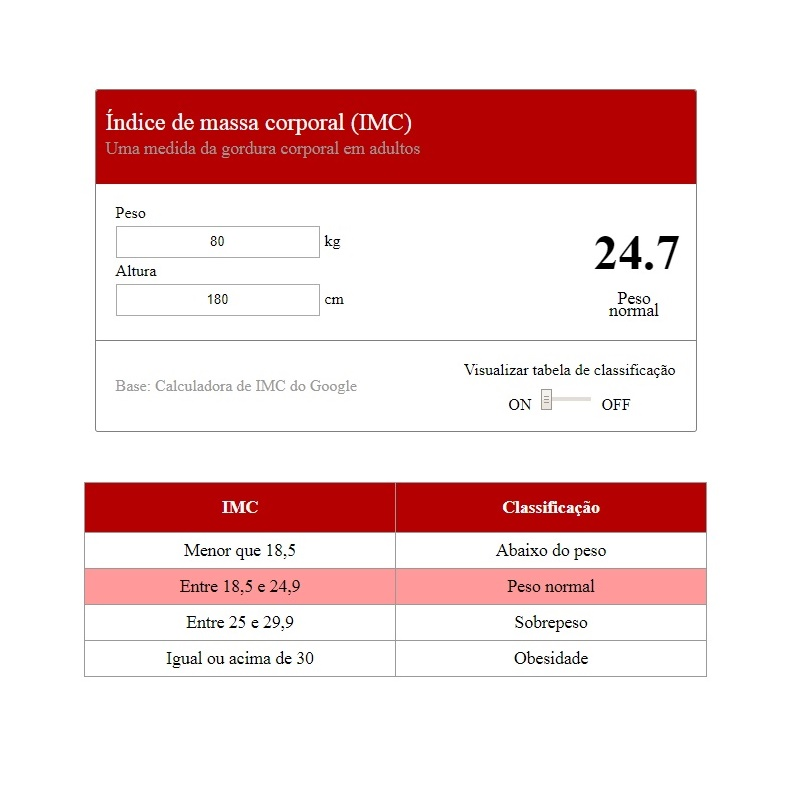
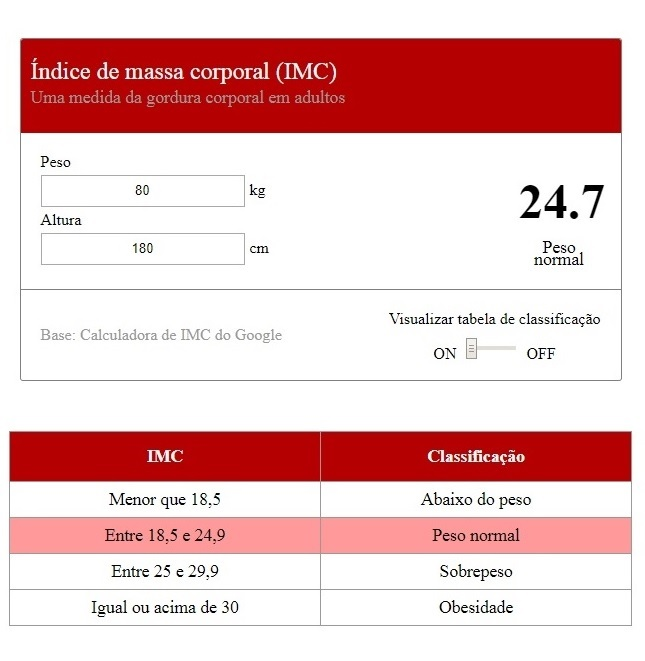
port+
add portfolio

diff --git a/index.html b/index.html
@@ -167,13 +167,20 @@
       <img src="img/port_formulario.jpg" alt="..." class="img_port img-fluid  mx-auto"> 
       <p class="portfolio_mais text-light py-2 mt-2 mb-0" >Mais Informações</p> 
       </div> 
+
+        <div class="portfolio_item col-lg-8 col-8 mx-1 d-inline-block bg-white py-0 my-2 px-0 "
+      data-toggle="modal" data-target="#port_imc_modal"> 
+       <p class="portfolio_titulo text-light py-2">Calculadora IMC<br> Javascript</p> 
+      <img src="img/port_imc.jpg" alt="..." class="img_port img-fluid  mx-auto"> 
+      <p class="portfolio_mais text-light py-2 mt-2 mb-0" >Mais Informações</p> 
+      </div> 
    
        </div>
 
-      <!--modal detalhes -->
+     
 
 
-<!-- Modal -->
+<!-- Modal formulario-->
 <div class="modal fade" id="port_formulario_modal" tabindex="-1" role="dialog" aria-labelledby="exampleModalLabel" aria-hidden="true">
   <div class="modal-dialog modal-lg" role="document">
     <div class="modal-content">
@@ -186,6 +193,28 @@
       <div class="modal-body row">
         <div class="col-lg-5"><img src="img/port_formulario_modal.jpg" alt="..." class=" img-fluid "> </div>
         <div class="d-inline col-lg-6 text-left"> <p><a href="https://gustavovianaa.github.io/formulario_bootstrap_jquery/" target="blank">Github Pages</a></p>   <p><a href="https://github.com/gustavovianaA/formulario_bootstrap_jquery" target="blank">Repositório no Github</a></p>
+        </div>
+      </div>
+      <div class="modal-footer">
+        <button type="button" class="btn btn-secondary" data-dismiss="modal">Fechar</button>
+      </div>
+    </div>
+  </div>
+</div>
+
+<!-- Modal imc-->
+<div class="modal fade" id="port_imc_modal" tabindex="-1" role="dialog" aria-labelledby="exampleModalLabel" aria-hidden="true">
+  <div class="modal-dialog modal-lg" role="document">
+    <div class="modal-content">
+      <div class="modal-header  text-center ">
+        <h5 class="modal-title " id="exampleModalLabel">Calculadora IMC em Javascript</h5>
+        <button type="button" class="close" data-dismiss="modal" aria-label="Close">
+          <span aria-hidden="true">&times;</span>
+        </button>
+      </div>
+      <div class="modal-body row">
+        <div class="col-lg-5"><img src="img/port_imc.jpg" alt="..." class=" img-fluid "> </div>
+        <div class="d-inline col-lg-6 text-left"> <p><a href="https://calculadora-imc--gustavovianaa.repl.co/" target="blank">Visualizar</a></p>   <p><a href="https://repl.it/@gustavovianaA/Calculadora-IMC" target="blank">Código no Repl.it</a></p>
         </div>
       </div>
       <div class="modal-footer">
